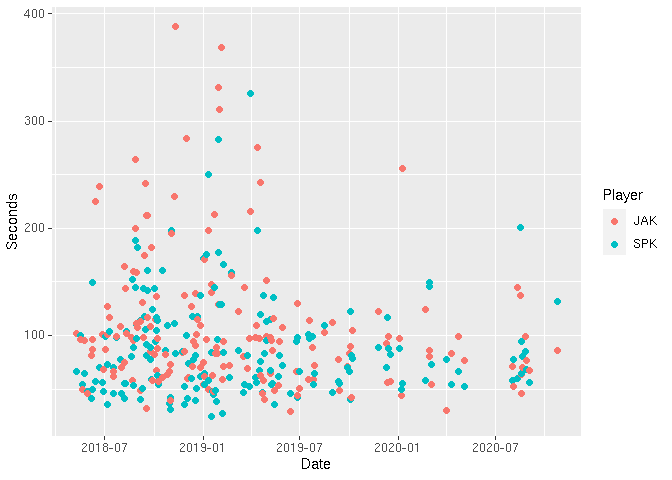
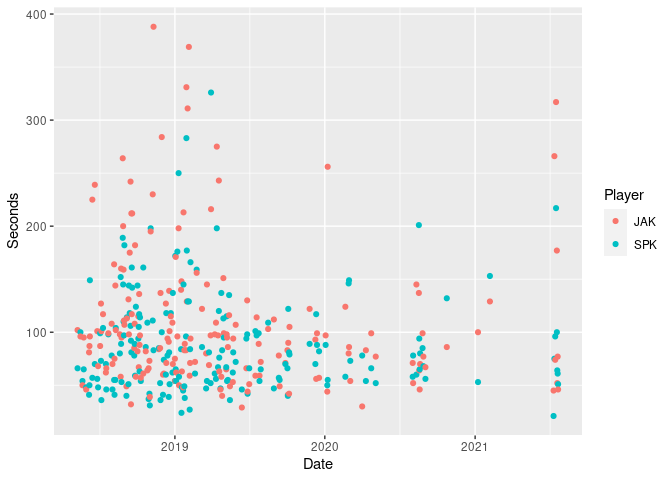
New data update

diff --git a/analysis/nyt_mini_crossword.md b/analysis/nyt_mini_crossword.md
@@ -1,7 +1,7 @@
 ---
 title: "New York Time Mini Crossword"
 author: "Stephen Kaluzny"
-date: "04 January, 2021"
+date: "26 July, 2021"
 output:
   html_document:
     keep_md: true
@@ -167,7 +167,7 @@ d %>%
 
 ## Summary Statistics
 
-Current data set has 1003 observations.
+Current data set has 1059 observations.
 
 
 ```r
@@ -177,19 +177,15 @@ d %>% group_by(Player) %>%
 ```
 
 ```
-## `summarise()` ungrouping output (override with `.groups` argument)
-```
-
-```
 ## # A tibble: 6 x 6
 ##   Player  Mean Median   Min   Max     N
 ##   <chr>  <dbl>  <dbl> <dbl> <dbl> <int>
 ## 1 SKK     51       47    21    89     4
 ## 2 AKK     55       55    55    55     1
-## 3 JIK     82.5     62    13   264   188
-## 4 JAK    103.      87    27   454   339
-## 5 SPK    106.      87    18   455   417
-## 6 BBK    117.     102    42   350    54
+## 3 JIK     81.5     62    13   264   199
+## 4 SPK    105.      86    18   455   438
+## 5 JAK    103.      87    27   454   362
+## 6 BBK    117.     102    42   350    55
 ```
 
 ## Subset the Data
@@ -204,7 +200,7 @@ d <- d %>%
   filter(Player %in% c("SPK", "JAK", "JIK"))
 ```
 
-Now have 944 observations.
+Now have 999 observations.
 
 ## Plots
 
@@ -307,13 +303,13 @@ sessionInfo()
 ```
 
 ```
-## R version 4.0.3 (2020-10-10)
+## R version 4.1.0 (2021-05-18)
 ## Platform: x86_64-pc-linux-gnu (64-bit)
-## Running under: Ubuntu 20.04.1 LTS
+## Running under: Ubuntu 20.04.2 LTS
 ## 
 ## Matrix products: default
-## BLAS:   /home/R/R-4.0.3/lib/R/lib/libRblas.so
-## LAPACK: /home/R/R-4.0.3/lib/R/lib/libRlapack.so
+## BLAS:   /home/R/R-4.1.0/lib/R/lib/libRblas.so
+## LAPACK: /home/R/R-4.1.0/lib/R/lib/libRlapack.so
 ## 
 ## locale:
 ##  [1] LC_CTYPE=en_US.UTF-8       LC_NUMERIC=C              
@@ -327,18 +323,18 @@ sessionInfo()
 ## [1] stats     graphics  grDevices utils     datasets  methods   base     
 ## 
 ## other attached packages:
-## [1] ggplot2_3.3.2 dplyr_1.0.2   tidyr_1.1.2   assertr_2.7  
+## [1] ggplot2_3.3.5 dplyr_1.0.7   tidyr_1.1.3   assertr_2.8  
 ## 
 ## loaded via a namespace (and not attached):
-##  [1] Rcpp_1.0.5        pillar_1.4.7      compiler_4.0.3    tools_4.0.3      
-##  [5] digest_0.6.27     lubridate_1.7.9.2 evaluate_0.14     lifecycle_0.2.0  
-##  [9] tibble_3.0.4      gtable_0.3.0      pkgconfig_2.0.3   rlang_0.4.9      
-## [13] cli_2.2.0         yaml_2.2.1        xfun_0.19         withr_2.3.0      
-## [17] stringr_1.4.0     knitr_1.30        generics_0.1.0    vctrs_0.3.6      
-## [21] hms_0.5.3         rprojroot_2.0.2   grid_4.0.3        tidyselect_1.1.0 
-## [25] glue_1.4.2        here_1.0.1        R6_2.5.0          fansi_0.4.1      
-## [29] rmarkdown_2.6     farver_2.0.3      purrr_0.3.4       magrittr_2.0.1   
-## [33] scales_1.1.1      ellipsis_0.3.1    htmltools_0.5.0   assertthat_0.2.1 
-## [37] colorspace_2.0-0  labeling_0.4.2    utf8_1.1.4        stringi_1.5.3    
-## [41] munsell_0.5.0     crayon_1.3.4
+##  [1] Rcpp_1.0.7        highr_0.9         pillar_1.6.1      compiler_4.1.0   
+##  [5] tools_4.1.0       digest_0.6.27     lubridate_1.7.10  evaluate_0.14    
+##  [9] lifecycle_1.0.0   tibble_3.1.2      gtable_0.3.0      pkgconfig_2.0.3  
+## [13] rlang_0.4.11      cli_3.0.1         DBI_1.1.1         yaml_2.2.1       
+## [17] xfun_0.24         withr_2.4.2       stringr_1.4.0     knitr_1.33       
+## [21] generics_0.1.0    vctrs_0.3.8       hms_1.1.0         rprojroot_2.0.2  
+## [25] grid_4.1.0        tidyselect_1.1.1  glue_1.4.2        here_1.0.1       
+## [29] R6_2.5.0          fansi_0.5.0       rmarkdown_2.9     farver_2.1.0     
+## [33] purrr_0.3.4       magrittr_2.0.1    scales_1.1.1      ellipsis_0.3.2   
+## [37] htmltools_0.5.1.1 assertthat_0.2.1  colorspace_2.0-2  labeling_0.4.2   
+## [41] utf8_1.2.1        stringi_1.7.3     munsell_0.5.0     crayon_1.4.1
 ```
